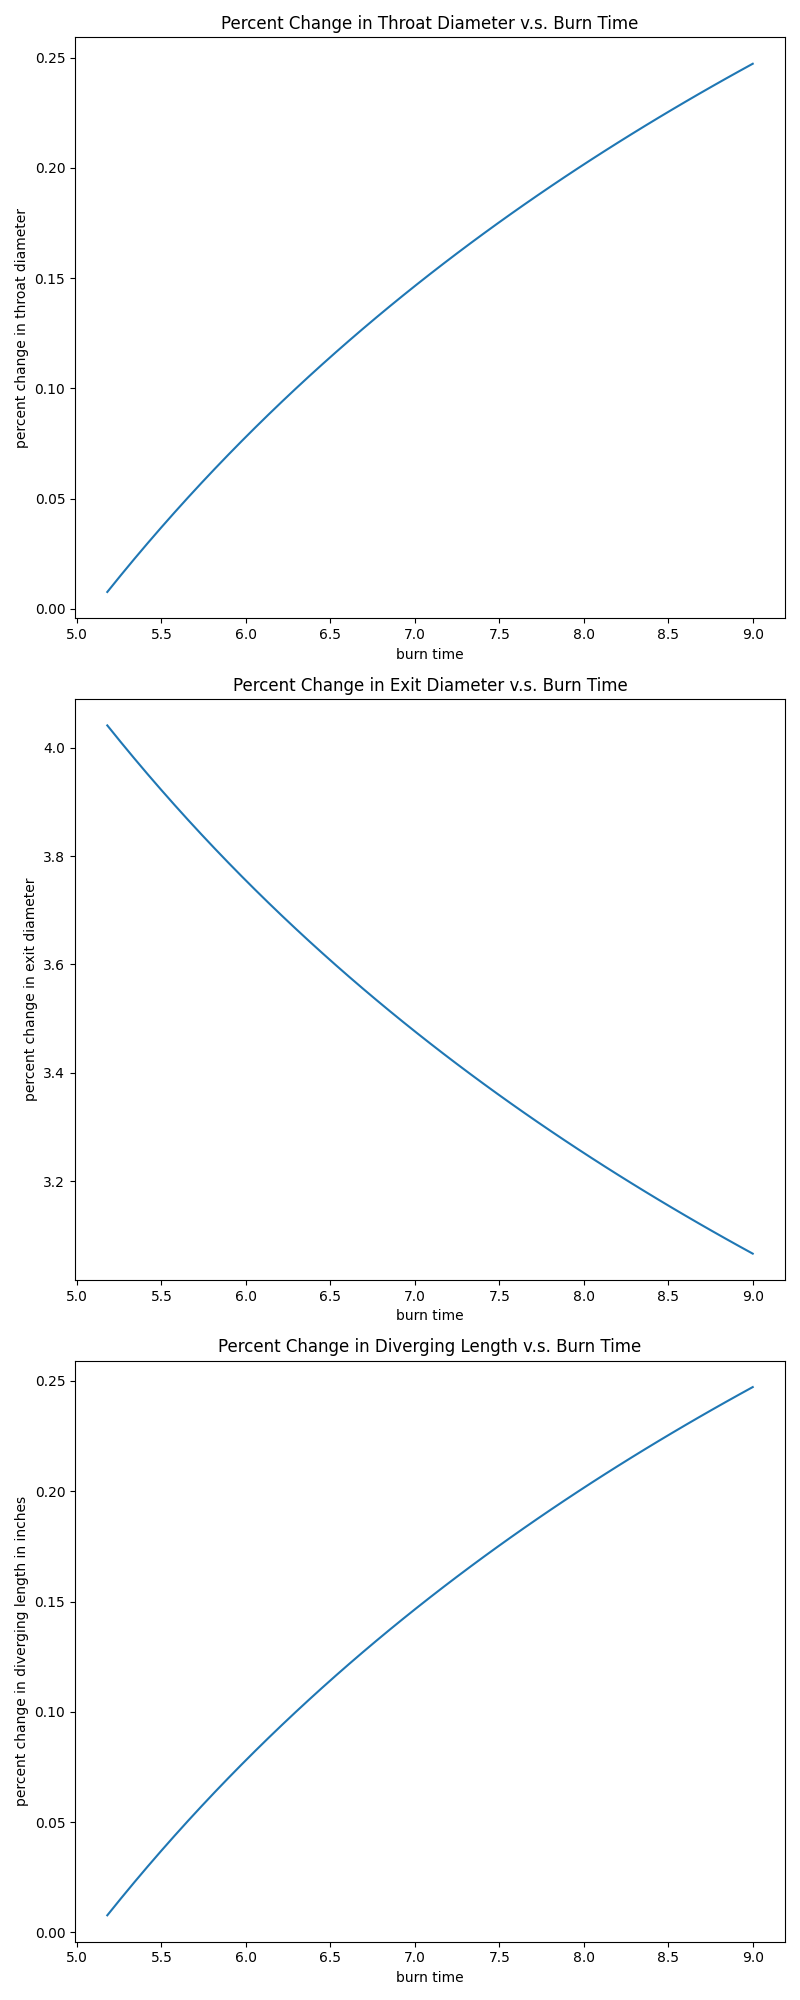
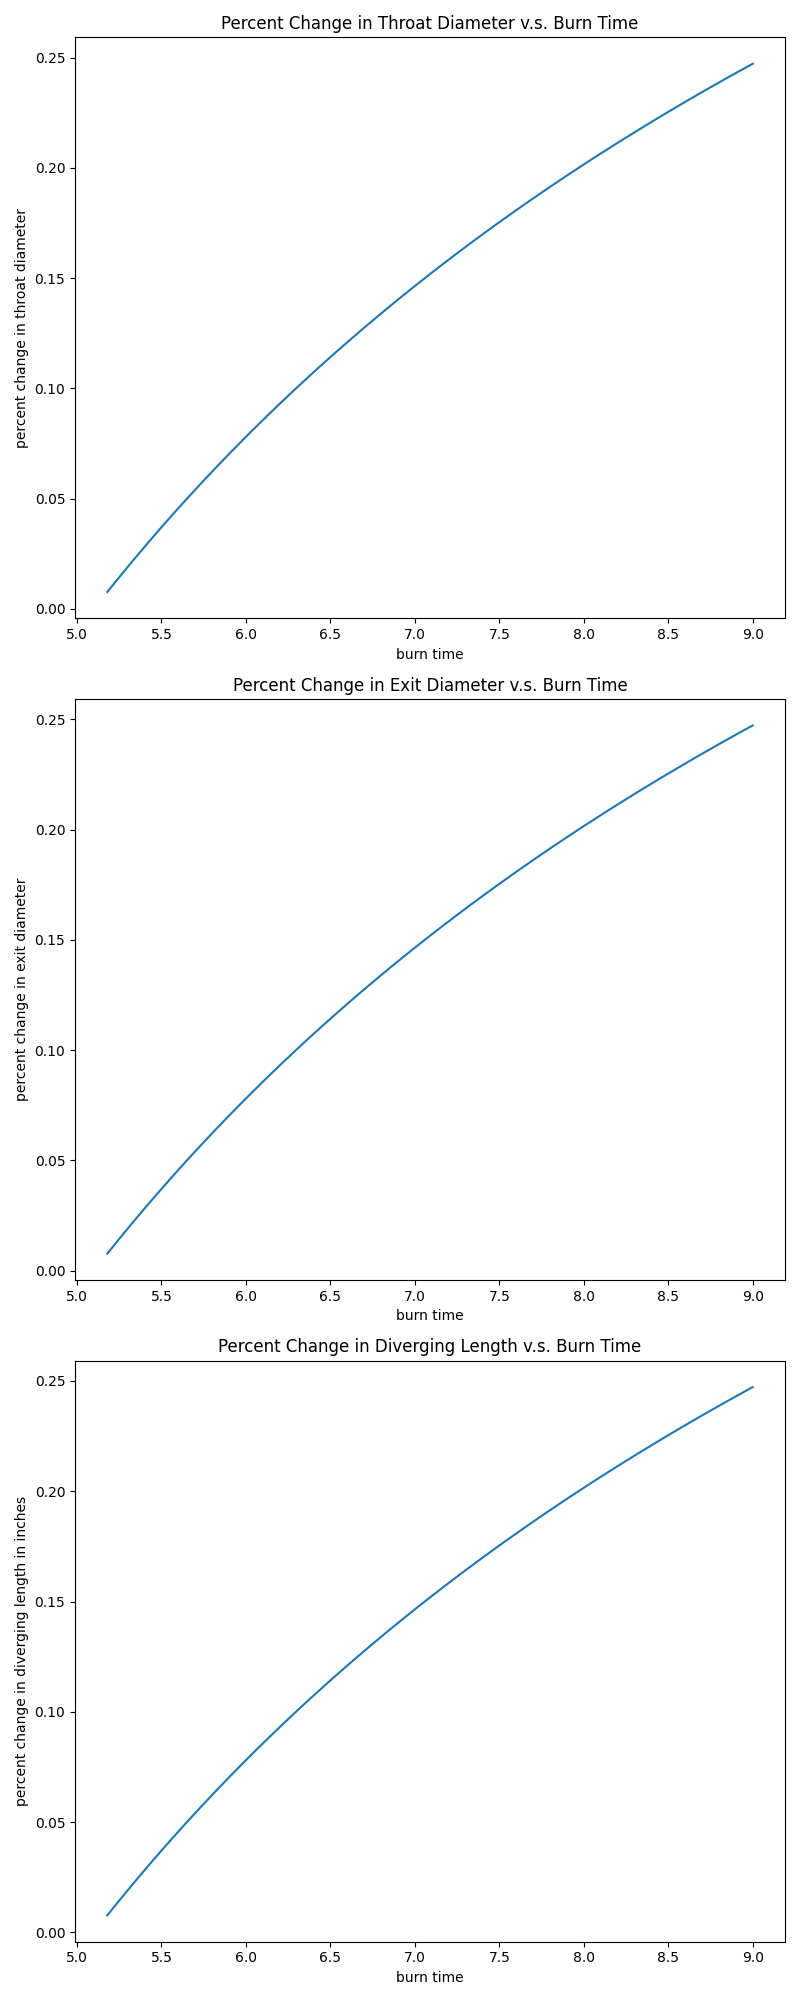
fixed burn time graphs

Changed region(s): [[0.0, 0.434, 0.0625, 0.558], [0.0625, 0.403, 0.0938, 0.434]]

diff --git a/burn_time_investigation.py b/burn_time_investigation.py
@@ -53,7 +53,7 @@ for path in csv_path:
     for i in range(1, len(thrust_avg)):
         diverging_length[i] = abs(diverging_length[i]-diverging_length[0]) / diverging_length[0]
         throat_diameter[i] = abs(throat_diameter[i]-throat_diameter[0]) / throat_diameter[0]
-        diverging_length[i] = abs(exit_diameter[i]-exit_diameter[0]) / exit_diameter[0]
+        exit_diameter[i] = abs(exit_diameter[i]-exit_diameter[0]) / exit_diameter[0]
 
         #print(abs(throat_diameter[i]-throat_diameter[i-1]))
         #print(abs(diverging_length[i]-diverging_length[i-1]))
@@ -74,7 +74,7 @@ for path in csv_path:
     axs[2].set_title("Percent Change in Diverging Length v.s. Burn Time")
 
     #print(throat_diameter)
-
+    
     fig.tight_layout()
     plt.savefig("burn_time.png")
 print("success")
